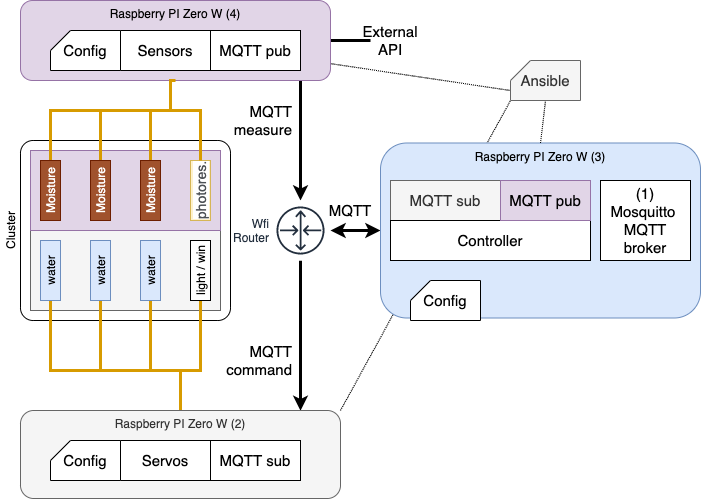
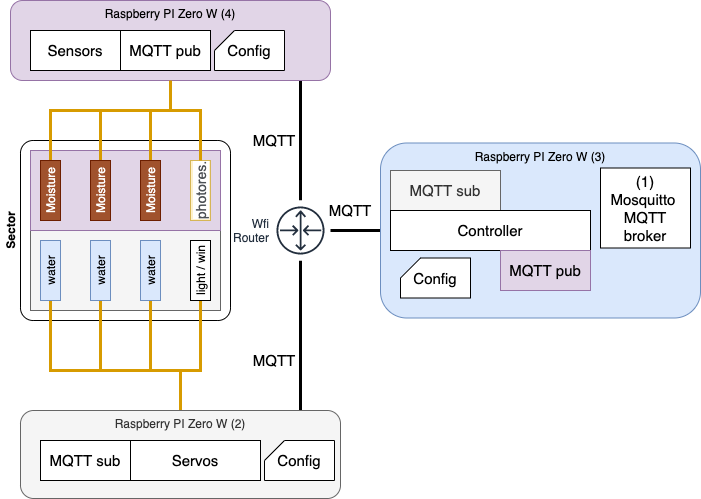
writing readme

diff --git a/README.md b/README.md
@@ -1,3 +1,85 @@
+
+# Pollicino
+
+*"Done is better than perfect!"* and *"Premature optimization is the root of all evil"* are two of the guidelines I follow for my new Christmas project. As almost every year I commit my self to start and hopeull complete a project during the Christmas holiday. It can be about anthign basically, from craving soem woods to build home made lamp.
+This time I focus on domotic and gardening and since the beginning I  had the feeling could be a very long project... this is why I tried to repeat to my self the two senteces aboves...
+
+ The goal of the project is to provide a way to ***automatize plants  and garden caring***.
+It is full of projects on internet about this and I do took a lot of inspiration from them but I added some some personalization to enable scalability, customization and plug and play approach.
+
+Here some of the component and tools used to give you an idea of what you will find here:
+
+- Several Raspberry PI Zero W
+- Several Sensors (Moisture, Brightness,...)
+- Several Solenoid valve, servo motor
+- MQTT protocol (Mosquitto)
+- Ansible
+- Docker
+- Python
+
+# Architecture
+
+## Flow
+
+![archi](docs/flow.png)
+
+- The **sensor** it is in charge to observe regularly the phisical environment and publish state and measurement
+- The **controller** goal is to read the input from the sensors and, after applying a certain logic, it will eventually send commands to the servo to change the state of the environment. It is also possible to *schedule* commands.
+- The objective of the **servo** is to execute the command sent by the controller by activating an engine, solenoid valve or any other phisical device. It has triggers:
+    - *Switch*: it is basic binary on / off cmmands (ie. shiwtgin on/off a light)
+    - *Square*: Is will maitain a certain state for a given time (ie. open water for a given amout of time)
+    - *Pulse*: it will change state multiple times over time 
+
+- The **broker** role is to provide a scalable and realilable message bus used by the oher component to communicate.
+
+## Components
+
+![archi](docs/pollicino.png)
+
+
+### Broker  
+In order to make the component communicating the protocol choosed in [MQTT](https://mqtt.org/) that can be considered the standard in the IoT communication.   
+MQTT is a pub/sub protocol based on the concept and desing of topic to be publisced by a producer and subscribed by consumer.I strongly suggest you to have a look to this [link](https://www.hivemq.com/blog/mqtt-essentials-part-5-mqtt-topics-best-practices/) , it explains quite well how to perform the first step into the deisgn part of MQTT Topic.
+#### Topic
+Defining the topic grammar is crucial in order to be able to govern the message exchange in a clear way. Here below the selected ones:
+
+    PATTERN_STATUS = '{sector}/{category}/{type}/{dev_id}'
+    PATTERN_CMD_PUB = '{sector}/{category}/{type}/{dev_id}/set'
+    PATTERN_CMD_SUB = '{sector}/{category}/+/+/set'
+
+- The *sensor* will **publish** PATTERN_STATUS
+- The *controller* will **suscribe** to PATTERN_STATUS
+- The *controller* will **publish** to PATTERN\_CMD_PUB
+- The *servo* will **suscribe** to PATTERN\_CMD_SUB
+
+Note that all sensors and servos (*category*) operate in a certain *sector* and they are identifed by a *type* and an *id*
+
+### Sensor
+
+
+
+### Controller
+
+
+
+### Servos
+
+
+
+## Simulation
+I decide to test all the entrire application before finalizing the hardware connestion and soldering. The idea is to use 
+- docker to instanc
+
+# Hardware
+## Electric schema
+
+# Put all together
+### Next steps
+
+### References
+
+
+------------------------------------------
 Python 3 MUST!
 
 
@@ -8,7 +90,7 @@ Python 3 MUST!
 Flow
 -------
 
-title Generic commumnication MQTT 
+title Flow 
 participant Hardware\ndevice as d
 participant App\nsensors as i
 participant App\nctrl as c
